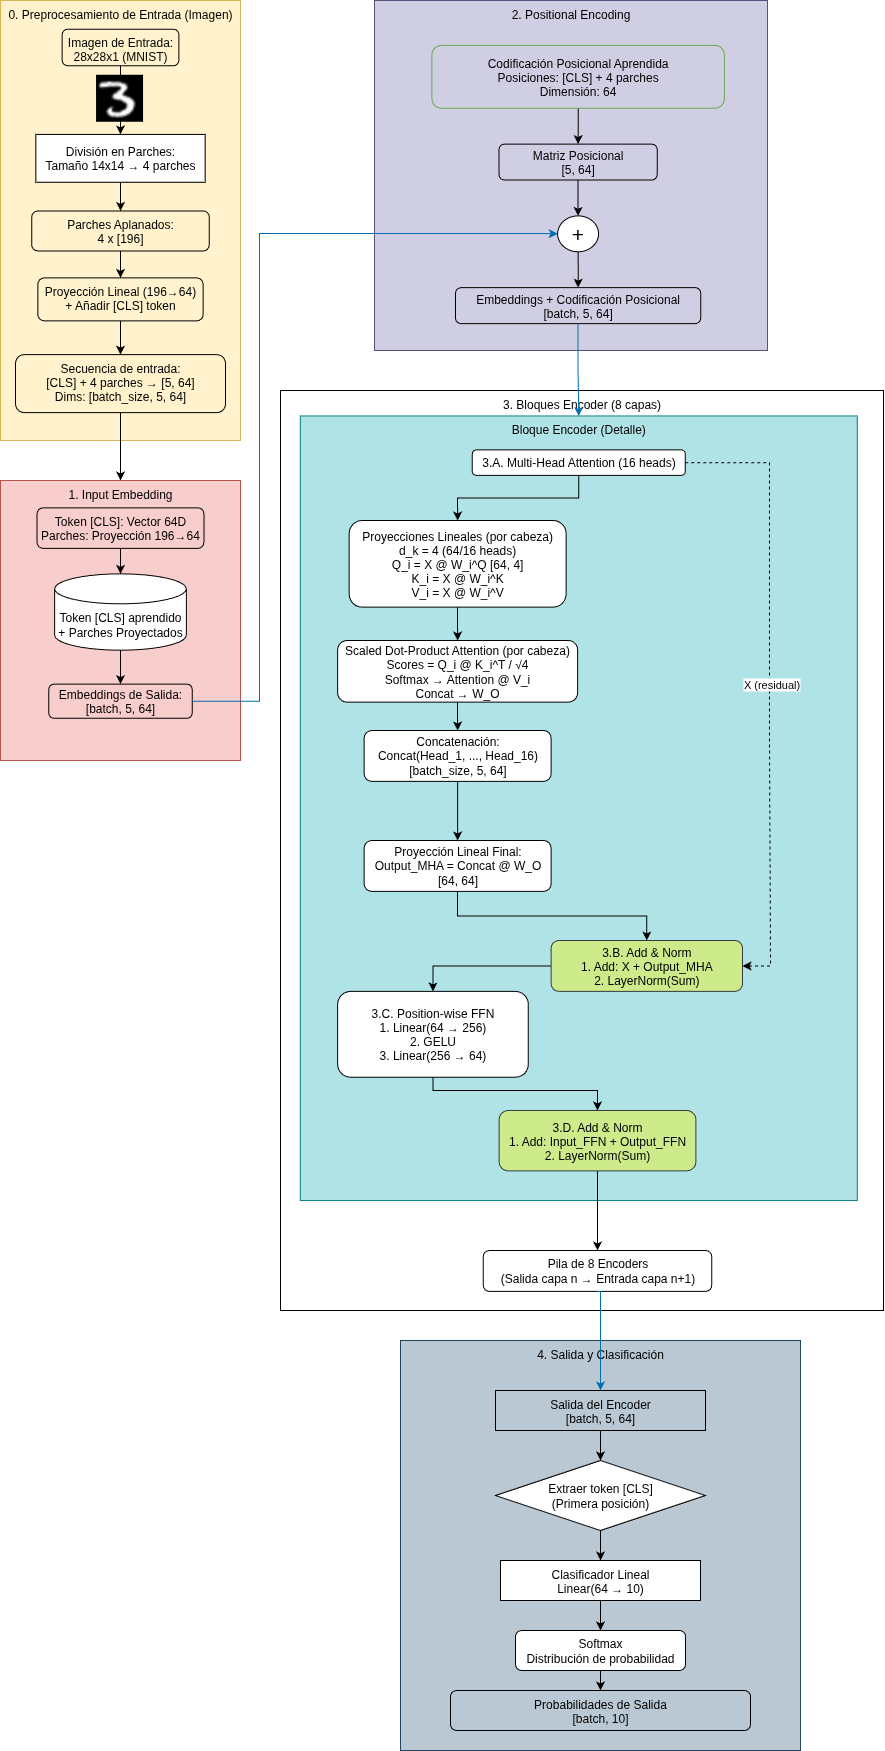
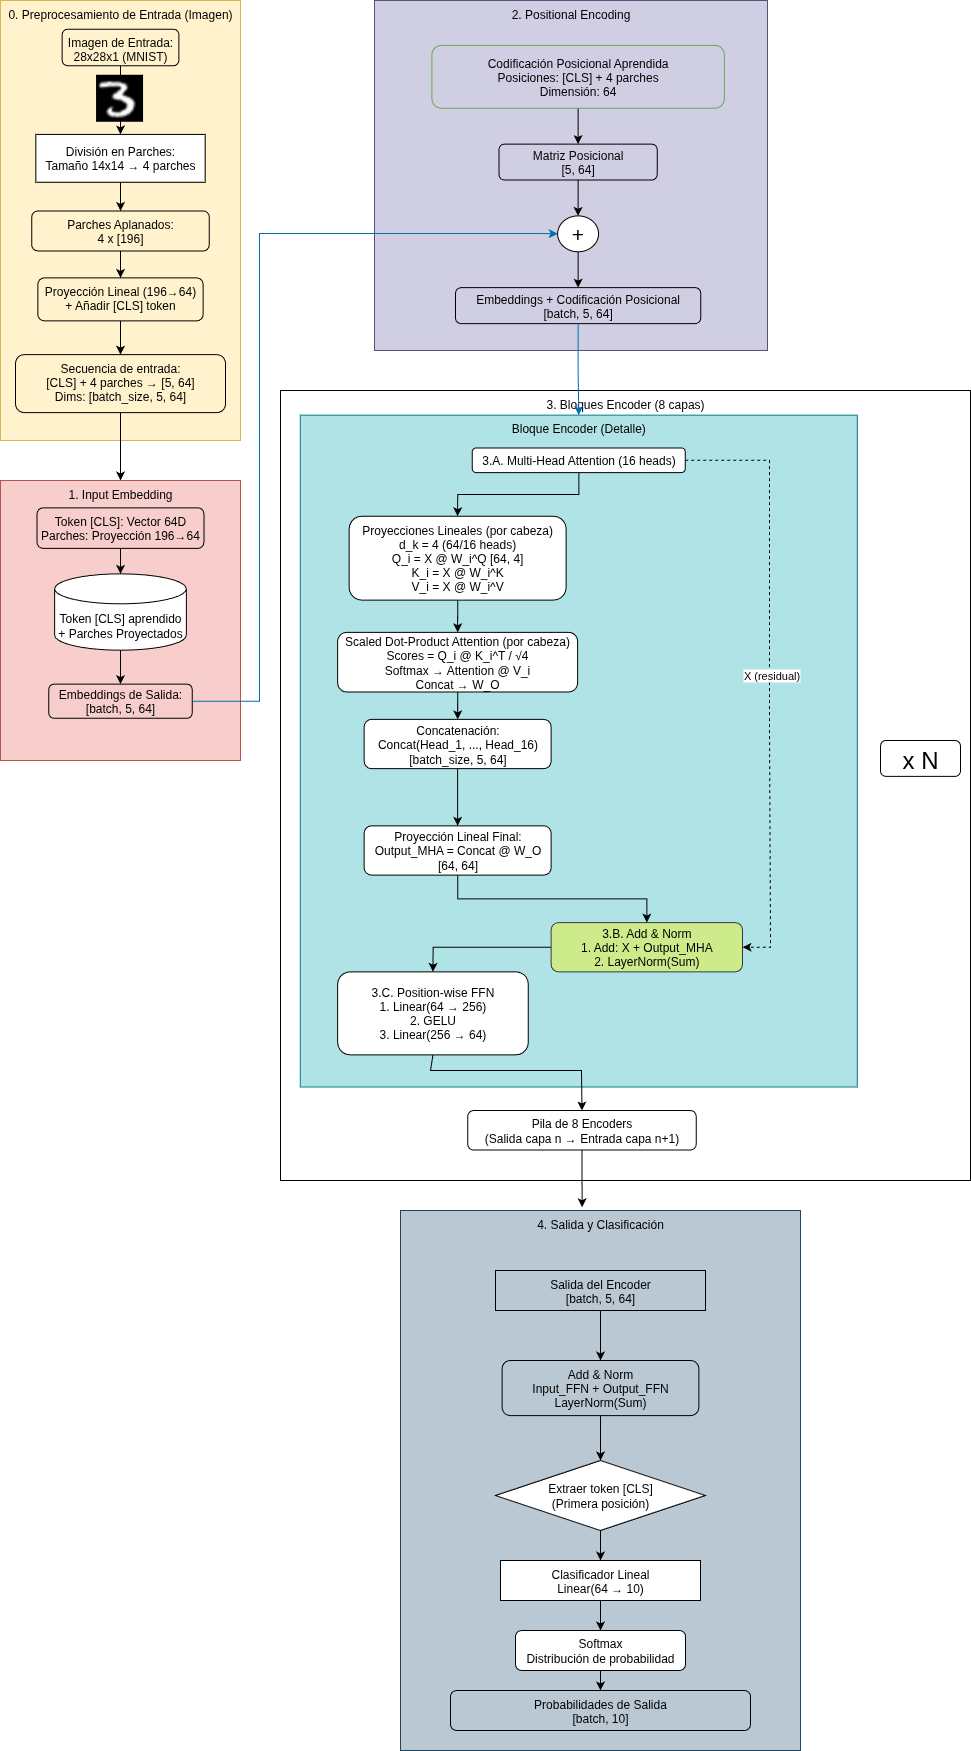
feat (docs): add colab for easy execution of cuda implementation vit transformer & update architecture diagram

Changed region(s): [[0.0305, 0.0, 1.0, 1.0], [0.4881, 0.0, 0.8847, 0.2159], [0.3661, 0.0, 0.4271, 0.2159]]

diff --git a/README.md b/README.md
@@ -1,76 +1,75 @@
 # Vision Transformer
 
-## Estructura del Proyecto
+![nVIDIA](https://img.shields.io/badge/cuda-green.svg?style=for-the-badge&logo=nVIDIA&logoColor=white)
+![C++](https://img.shields.io/badge/c++-%2300599C.svg?style=for-the-badge&logo=c%2B%2B&logoColor=white)
+![CMake](https://img.shields.io/badge/CMake-%23008FBA.svg?style=for-the-badge&logo=cmake&logoColor=white)
 
-A continuación se muestra la estructura de directorios del proyecto:
+> **💡 Puedes ejecutar el entrenamiento en GPU con CUDA desde [Google Colab](https://colab.research.google.com/drive/1n7AIsbDGGtv3eTVO681Enz35pO3e5fWF?usp=sharing):**  
+> [![Abrir en Colab](https://colab.research.google.com/assets/colab-badge.svg)](https://colab.research.google.com/drive/1n7AIsbDGGtv3eTVO681Enz35pO3e5fWF?usp=sharing)
 
+---
+
+## Instrucciones para ejecutar el proyecto con GPU (CUDA)
+
+### **_Requisitos:_**
+
+| **Herramienta** | **Usado**       | **Recomendado** |
+| --------------- | --------------- | --------------- |
+| **CMake**       | 3.30.5          | ≥ 3.26          |
+| **G++ (GCC)**   | 13.3.1          | < 13.x          |
+| **CUDA (nvcc)** | 12.6 (V12.6.85) | 12.0 o superior |
+
+
+### 1. Clonar repositorio, Descargar y descomprimir los datos
+
+```bash
+git clone https://github.com/PaulParizacaMozo/VisionTransformer.git
+cd VisionTransformer
+cd cuda_Vit
 ```
-.
-├── app
-│   └── main.cpp
-├── CMakeLists.txt
-├── compile\_commands.json
-├── data
-│   ├── fashion\_test.csv
-│   ├── fashion\_train.csv
-│   ├── mnist\_test.csv
-│   └── mnist\_train.csv
-├── include
-│   ├── activations
-│   │   ├── GELU.hpp
-│   │   └── ReLU.hpp
-│   ├── core
-│   │   └── Tensor.hpp
-│   ├── layers
-│   │   ├── Dense.hpp
-│   │   ├── Embeddings.hpp
-│   │   ├── FeedForward.hpp
-│   │   ├── Layer.hpp
-│   │   ├── LayerNorm.hpp
-│   │   ├── MultiHeadAttention.hpp
-│   │   └── PatchEmbedding.hpp
-│   ├── losses
-│   │   ├── CrossEntropy.hpp
-│   │   └── Loss.hpp
-│   ├── model
-│   │   ├── Trainer.hpp
-│   │   ├── TransformerEncoderBlock.hpp
-│   │   └── VisionTransformer.hpp
-│   ├── optimizers
-│   │   ├── Adam.hpp
-│   │   ├── Optimizer.hpp
-│   │   └── SGD.hpp
-│   └── utils
-│   │   ├── DataReader.hpp
-│   │   └── ModelUtils.hpp
-├── README.md
-├── run.sh
-└── src
-├── activations
-│   ├── GELU.cpp
-│   └── ReLU.cpp
-├── core
-│   └── Tensor.cpp
-├── layers
-│   ├── Dense.cpp
-│   ├── Embeddings.cpp
-│   ├── FeedForward.cpp
-│   ├── LayerNorm.cpp
-│   ├── MultiHeadAttention.cpp
-│   └── PatchEmbedding.cpp
-├── losses
-│   └── CrossEntropy.cpp
-├── model
-│   ├── Trainer.cpp
-│   ├── TransformerEncoderBlock.cpp
-│   └── VisionTransformer.cpp
-├── optimizers
-│   └── Adam.cpp
-└── utils
-├── DataReader.cpp
-└── ModelUtils.cpp
 
+El proyecto utiliza un archivo comprimido llamado `data.zip` que contiene los conjuntos de datos necesarios para la ejecución (Fashion MNIST y MNIST).
+
+1. Descarga el archivo `data.zip` desde el repositorio.
+2. Descomprime el archivo `data.zip` en el directorio raíz de tu proyecto. Esto creará un directorio `data` que contiene los siguientes archivos CSV:
+   - `fashion_test.csv`
+   - `fashion_train.csv`
+   - `mnist_test.csv`
+   - `mnist_train.csv`
+
+```bash
+wget https://github.com/PaulParizacaMozo/VisionTransformer/releases/download/data/data.zip
+7z x data.zip
 ```
+
+### 2. Preparar el script `run.sh`
+
+Antes de ejecutar el script, asegúrate de darle permisos de ejecución:
+
+```bash
+chmod +x run.sh
+```
+
+### 3. Ejecutar el proyecto
+
+- Para ejecutar el entrenamiento:
+
+```bash
+./run.sh
+```
+
+- Para testear el modelo en el conjunto de pruebas:
+
+```bash
+./run.sh test
+```
+
+- Para testear el modelo con una imagen aleatoria `.png`:
+
+```bash
+./run.sh image data/7.png
+```
+
 
 ## Instrucciones para ejecutar el proyecto con CPU
 
@@ -133,75 +132,13 @@ Este script compilará y ejecutará el proyecto. Los datos de entrada se leerán
 
 ---
 
-## Vision Transformer in CUDA
+## Resultados
 
-### Requisitos
-
-| **Herramienta** | **Usado**       | **Recomendado** |
-| --------------- | --------------- | --------------- |
-| **CMake**       | 3.30.5          | ≥ 3.26          |
-| **G++ (GCC)**   | 13.3.1          | 13.x            |
-| **CUDA (nvcc)** | 12.6 (V12.6.85) | 12.0 o superior |
-
-### Instrucciones para ejecutar el proyecto
-
-#### 1. Clonar repositorio, Descargar y descomprimir los datos
-
-```bash
-git clone https://github.com/PaulParizacaMozo/VisionTransformer.git
-cd VisionTransformer
-cd cuda_Vit
-```
-
-El proyecto utiliza un archivo comprimido llamado `data.zip` que contiene los conjuntos de datos necesarios para la ejecución (Fashion MNIST y MNIST).
-
-1. Descarga el archivo `data.zip` desde el repositorio.
-2. Descomprime el archivo `data.zip` en el directorio raíz de tu proyecto. Esto creará un directorio `data` que contiene los siguientes archivos CSV:
-   - `fashion_test.csv`
-   - `fashion_train.csv`
-   - `mnist_test.csv`
-   - `mnist_train.csv`
-
-```bash
-wget https://github.com/PaulParizacaMozo/VisionTransformer/releases/download/data/data.zip
-7z x data.zip
-```
-
-#### 2. Preparar el script `run.sh`
-
-Antes de ejecutar el script, asegúrate de darle permisos de ejecución:
-
-```bash
-chmod +x run.sh
-```
-
-#### 3. Ejecutar el proyecto
-
-- Para ejecutar el entrenamiento:
-
-```bash
-./run.sh
-```
-
-- Para testear el modelo en el conjunto de pruebas:
-
-```bash
-./run.sh test
-```
-
-- Para testear el modelo con una imagen aleatoria `.png`:
-
-```bash
-./run.sh image data/7.png
-```
-
-### Resultados
-
-#### Dataset: MNIST
+### Dataset: MNIST
 
 Este experimento entrena un modelo Vision Transformer (ViT) en el dataset **MNIST** usando los siguientes hiperparámetros:
 
-##### **1. Hiperparámetros del Modelo**
+#### **1. Hiperparámetros del Modelo**
 
 | Parámetro        | Valor | Comentario                                   |
 | ---------------- | ----- | -------------------------------------------- |
@@ -214,7 +151,7 @@ Este experimento entrena un modelo Vision Transformer (ViT) en el dataset **MNIS
 | `mlp_hidden_dim` | 384   | `embedding_dim * 4`                          |
 | `dropout_rate`   | 0.2   | Regularización                               |
 
-##### **2. Hiperparámetros de Entrenamiento**
+#### **2. Hiperparámetros de Entrenamiento**
 
 | Parámetro       | Valor | Comentario                                 |
 | --------------- | ----- | ------------------------------------------ |
@@ -225,7 +162,7 @@ Este experimento entrena un modelo Vision Transformer (ViT) en el dataset **MNIS
 | `lr_init`       | 3e-4  | Tasa inicial de LR (igual a learning_rate) |
 | `warmup_frac`   | 0.1   | 10% de las épocas serán warm-up            |
 
-##### **3. Configuración de Datos**
+#### **3. Configuración de Datos**
 
 | Parámetro         | Valor          | Comentario                        |
 | ----------------- | -------------- | --------------------------------- |
@@ -236,7 +173,7 @@ Este experimento entrena un modelo Vision Transformer (ViT) en el dataset **MNIS
 | `height`, `width` | 28 × 28        | Tamaño original de imagen         |
 | `mean`, `std`     | 0.1307, 0.3081 | Normalización estándar para MNIST |
 
-##### Ejecucion
+#### Ejecucion
 
 - **Entrenamiento:**
 
@@ -246,7 +183,7 @@ Este experimento entrena un modelo Vision Transformer (ViT) en el dataset **MNIS
 
   ![](cuda_Vit/.docs/mnist_test.png)
 
-##### Modelo Preentrenado
+#### Modelo Preentrenado
 
 El modelo ya ha sido entrenado y se encuentra guardado en:
 
@@ -257,7 +194,7 @@ models/vit_mnist_test
 Para probarlo simplemente ejecuta:
 
 ```bash
-./run test
+./run.sh test
 ```
 
 ---
@@ -421,3 +358,77 @@ model_config.in_channels = 3;        // Para imágenes RGB (BloodMNIST)
 
 - **BloodMNIST** (imágenes 3x28x28):
   - Accuracy ~75-80% en alrededor de 30 épocas
+
+
+
+## Estructura del Proyecto
+
+A continuación se muestra la estructura de directorios del proyecto:
+
+```
+.
+├── app
+│   └── main.cpp
+├── CMakeLists.txt
+├── compile\_commands.json
+├── data
+│   ├── fashion\_test.csv
+│   ├── fashion\_train.csv
+│   ├── mnist\_test.csv
+│   └── mnist\_train.csv
+├── include
+│   ├── activations
+│   │   ├── GELU.hpp
+│   │   └── ReLU.hpp
+│   ├── core
+│   │   └── Tensor.hpp
+│   ├── layers
+│   │   ├── Dense.hpp
+│   │   ├── Embeddings.hpp
+│   │   ├── FeedForward.hpp
+│   │   ├── Layer.hpp
+│   │   ├── LayerNorm.hpp
+│   │   ├── MultiHeadAttention.hpp
+│   │   └── PatchEmbedding.hpp
+│   ├── losses
+│   │   ├── CrossEntropy.hpp
+│   │   └── Loss.hpp
+│   ├── model
+│   │   ├── Trainer.hpp
+│   │   ├── TransformerEncoderBlock.hpp
+│   │   └── VisionTransformer.hpp
+│   ├── optimizers
+│   │   ├── Adam.hpp
+│   │   ├── Optimizer.hpp
+│   │   └── SGD.hpp
+│   └── utils
+│   │   ├── DataReader.hpp
+│   │   └── ModelUtils.hpp
+├── README.md
+├── run.sh
+└── src
+├── activations
+│   ├── GELU.cpp
+│   └── ReLU.cpp
+├── core
+│   └── Tensor.cpp
+├── layers
+│   ├── Dense.cpp
+│   ├── Embeddings.cpp
+│   ├── FeedForward.cpp
+│   ├── LayerNorm.cpp
+│   ├── MultiHeadAttention.cpp
+│   └── PatchEmbedding.cpp
+├── losses
+│   └── CrossEntropy.cpp
+├── model
+│   ├── Trainer.cpp
+│   ├── TransformerEncoderBlock.cpp
+│   └── VisionTransformer.cpp
+├── optimizers
+│   └── Adam.cpp
+└── utils
+├── DataReader.cpp
+└── ModelUtils.cpp
+
+```
